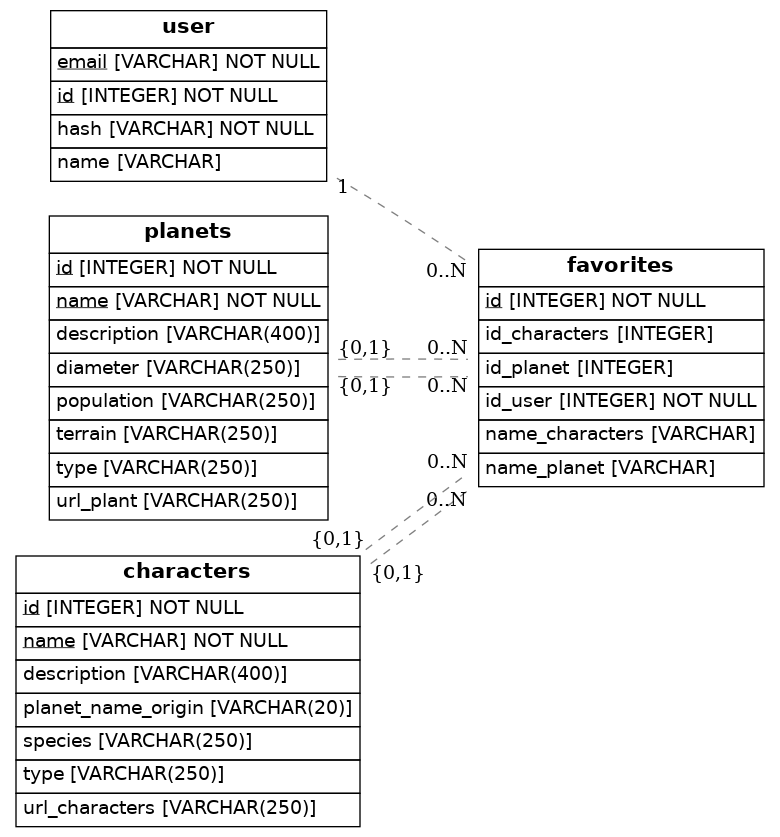
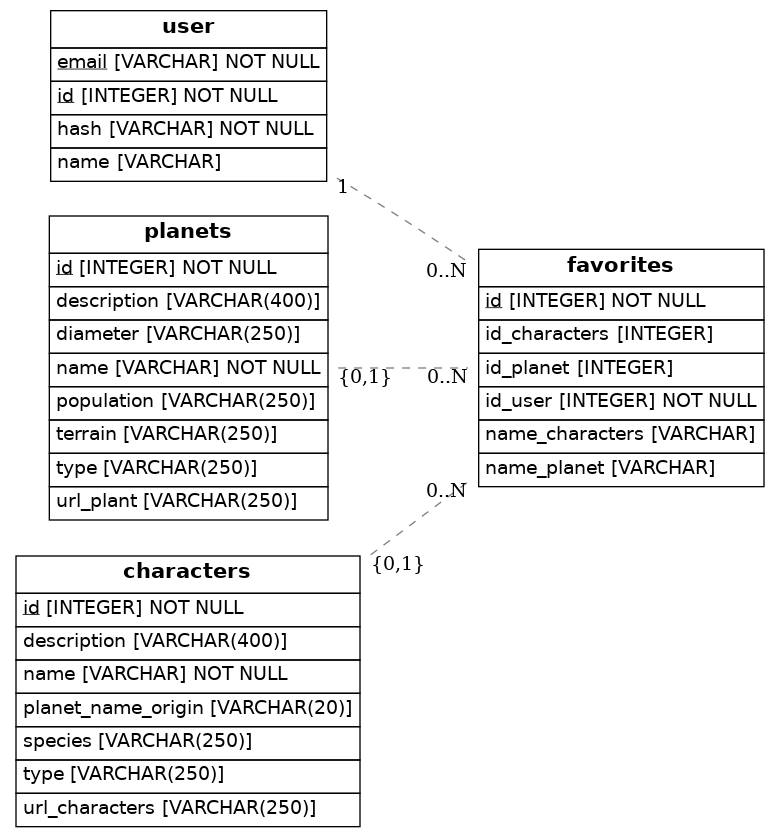
Changes in relatonships

diff --git a/src/models.py b/src/models.py
@@ -23,15 +23,15 @@ class Favorites(Base):
     planets = relationship("Planets")
     id_characters = Column(Integer, ForeignKey("characters.id"))
     characters = relationship("Characters")
-    name_planet = Column(String, ForeignKey("planets.name"))
-    name_characters = Column(String, ForeignKey("characters.name"))
+    name_planet = Column(String)
+    name_characters = Column(String)
 
 
 class Planets(Base):
     __tablename__ = 'planets'
     id = Column(Integer, primary_key=True, nullable=False)
     favorites= relationship("Favorites")
-    name = Column(String, primary_key=True, nullable=False)
+    name = Column(String, nullable=False)
     type = Column(String(250))
     description = Column(String(400))
     population = Column(String(250))
@@ -44,7 +44,7 @@ class Characters(Base):
     __tablename__ = 'characters'
     id =  Column(Integer, primary_key=True)
     favorites= relationship("Favorites")
-    name = Column(String, primary_key=True, nullable=False)
+    name = Column(String, nullable=False)
     type = Column(String(250))
     description = Column(String(400))
     species = Column(String(250))
